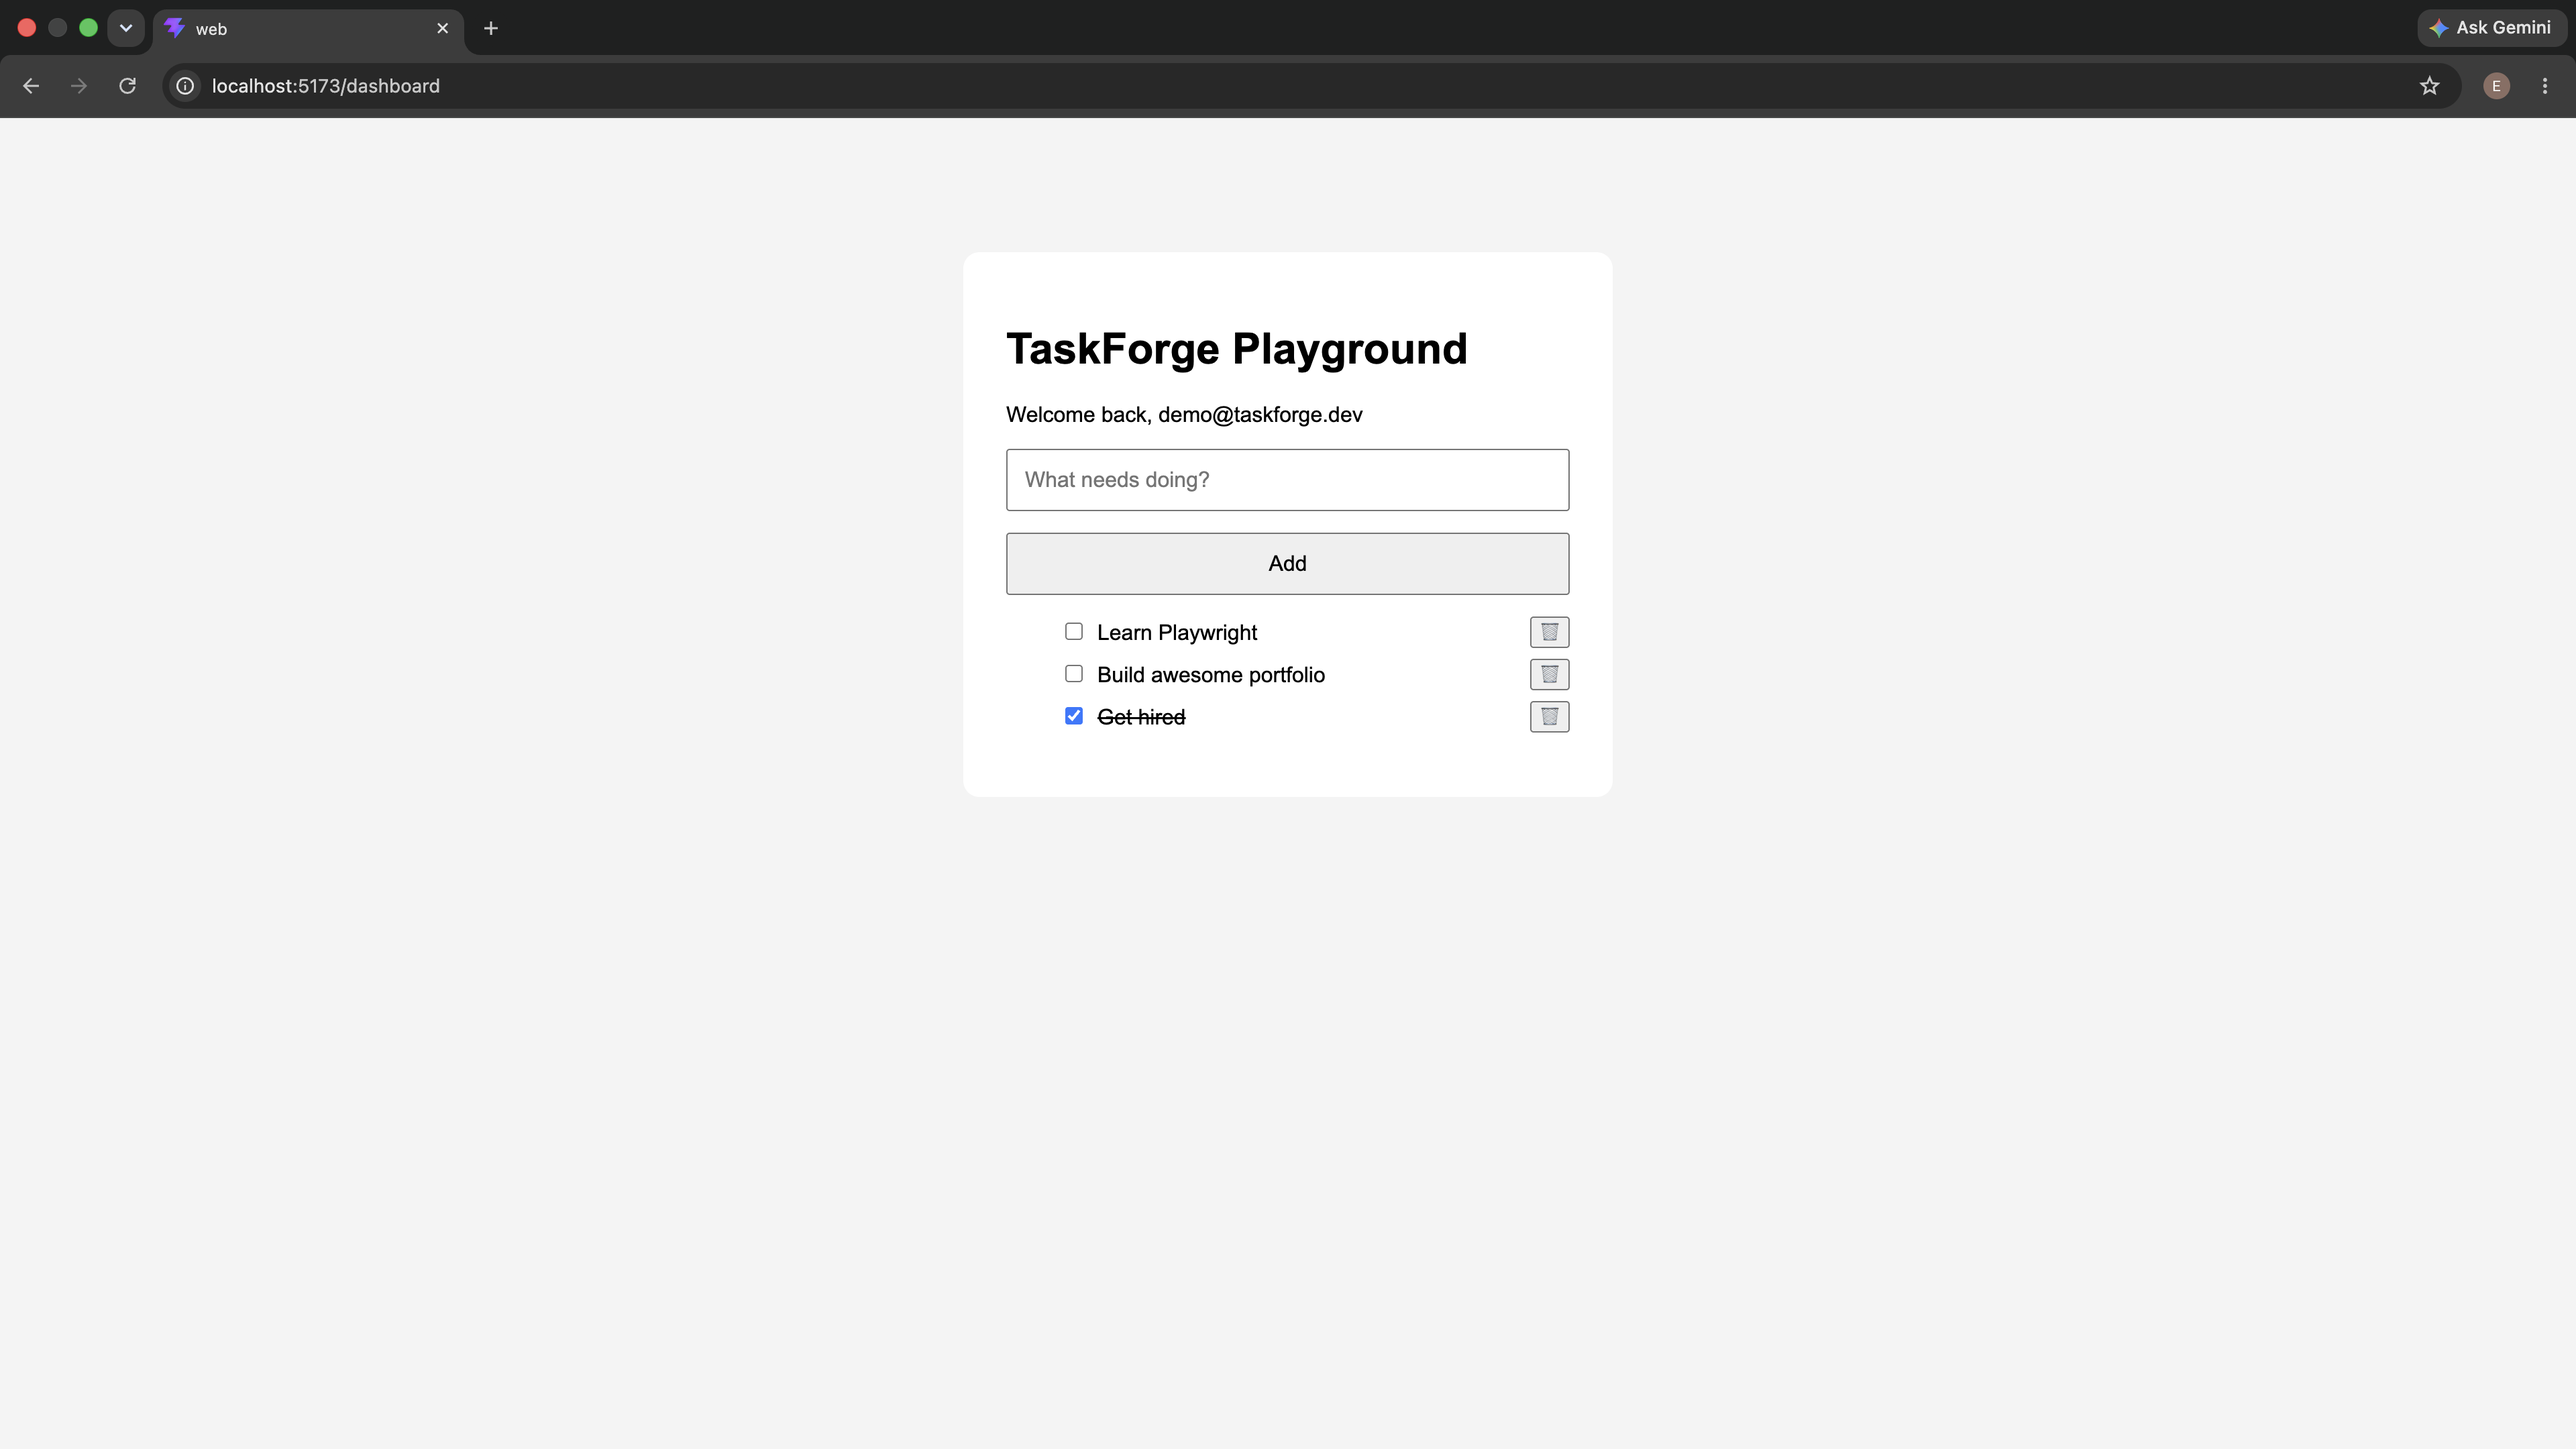
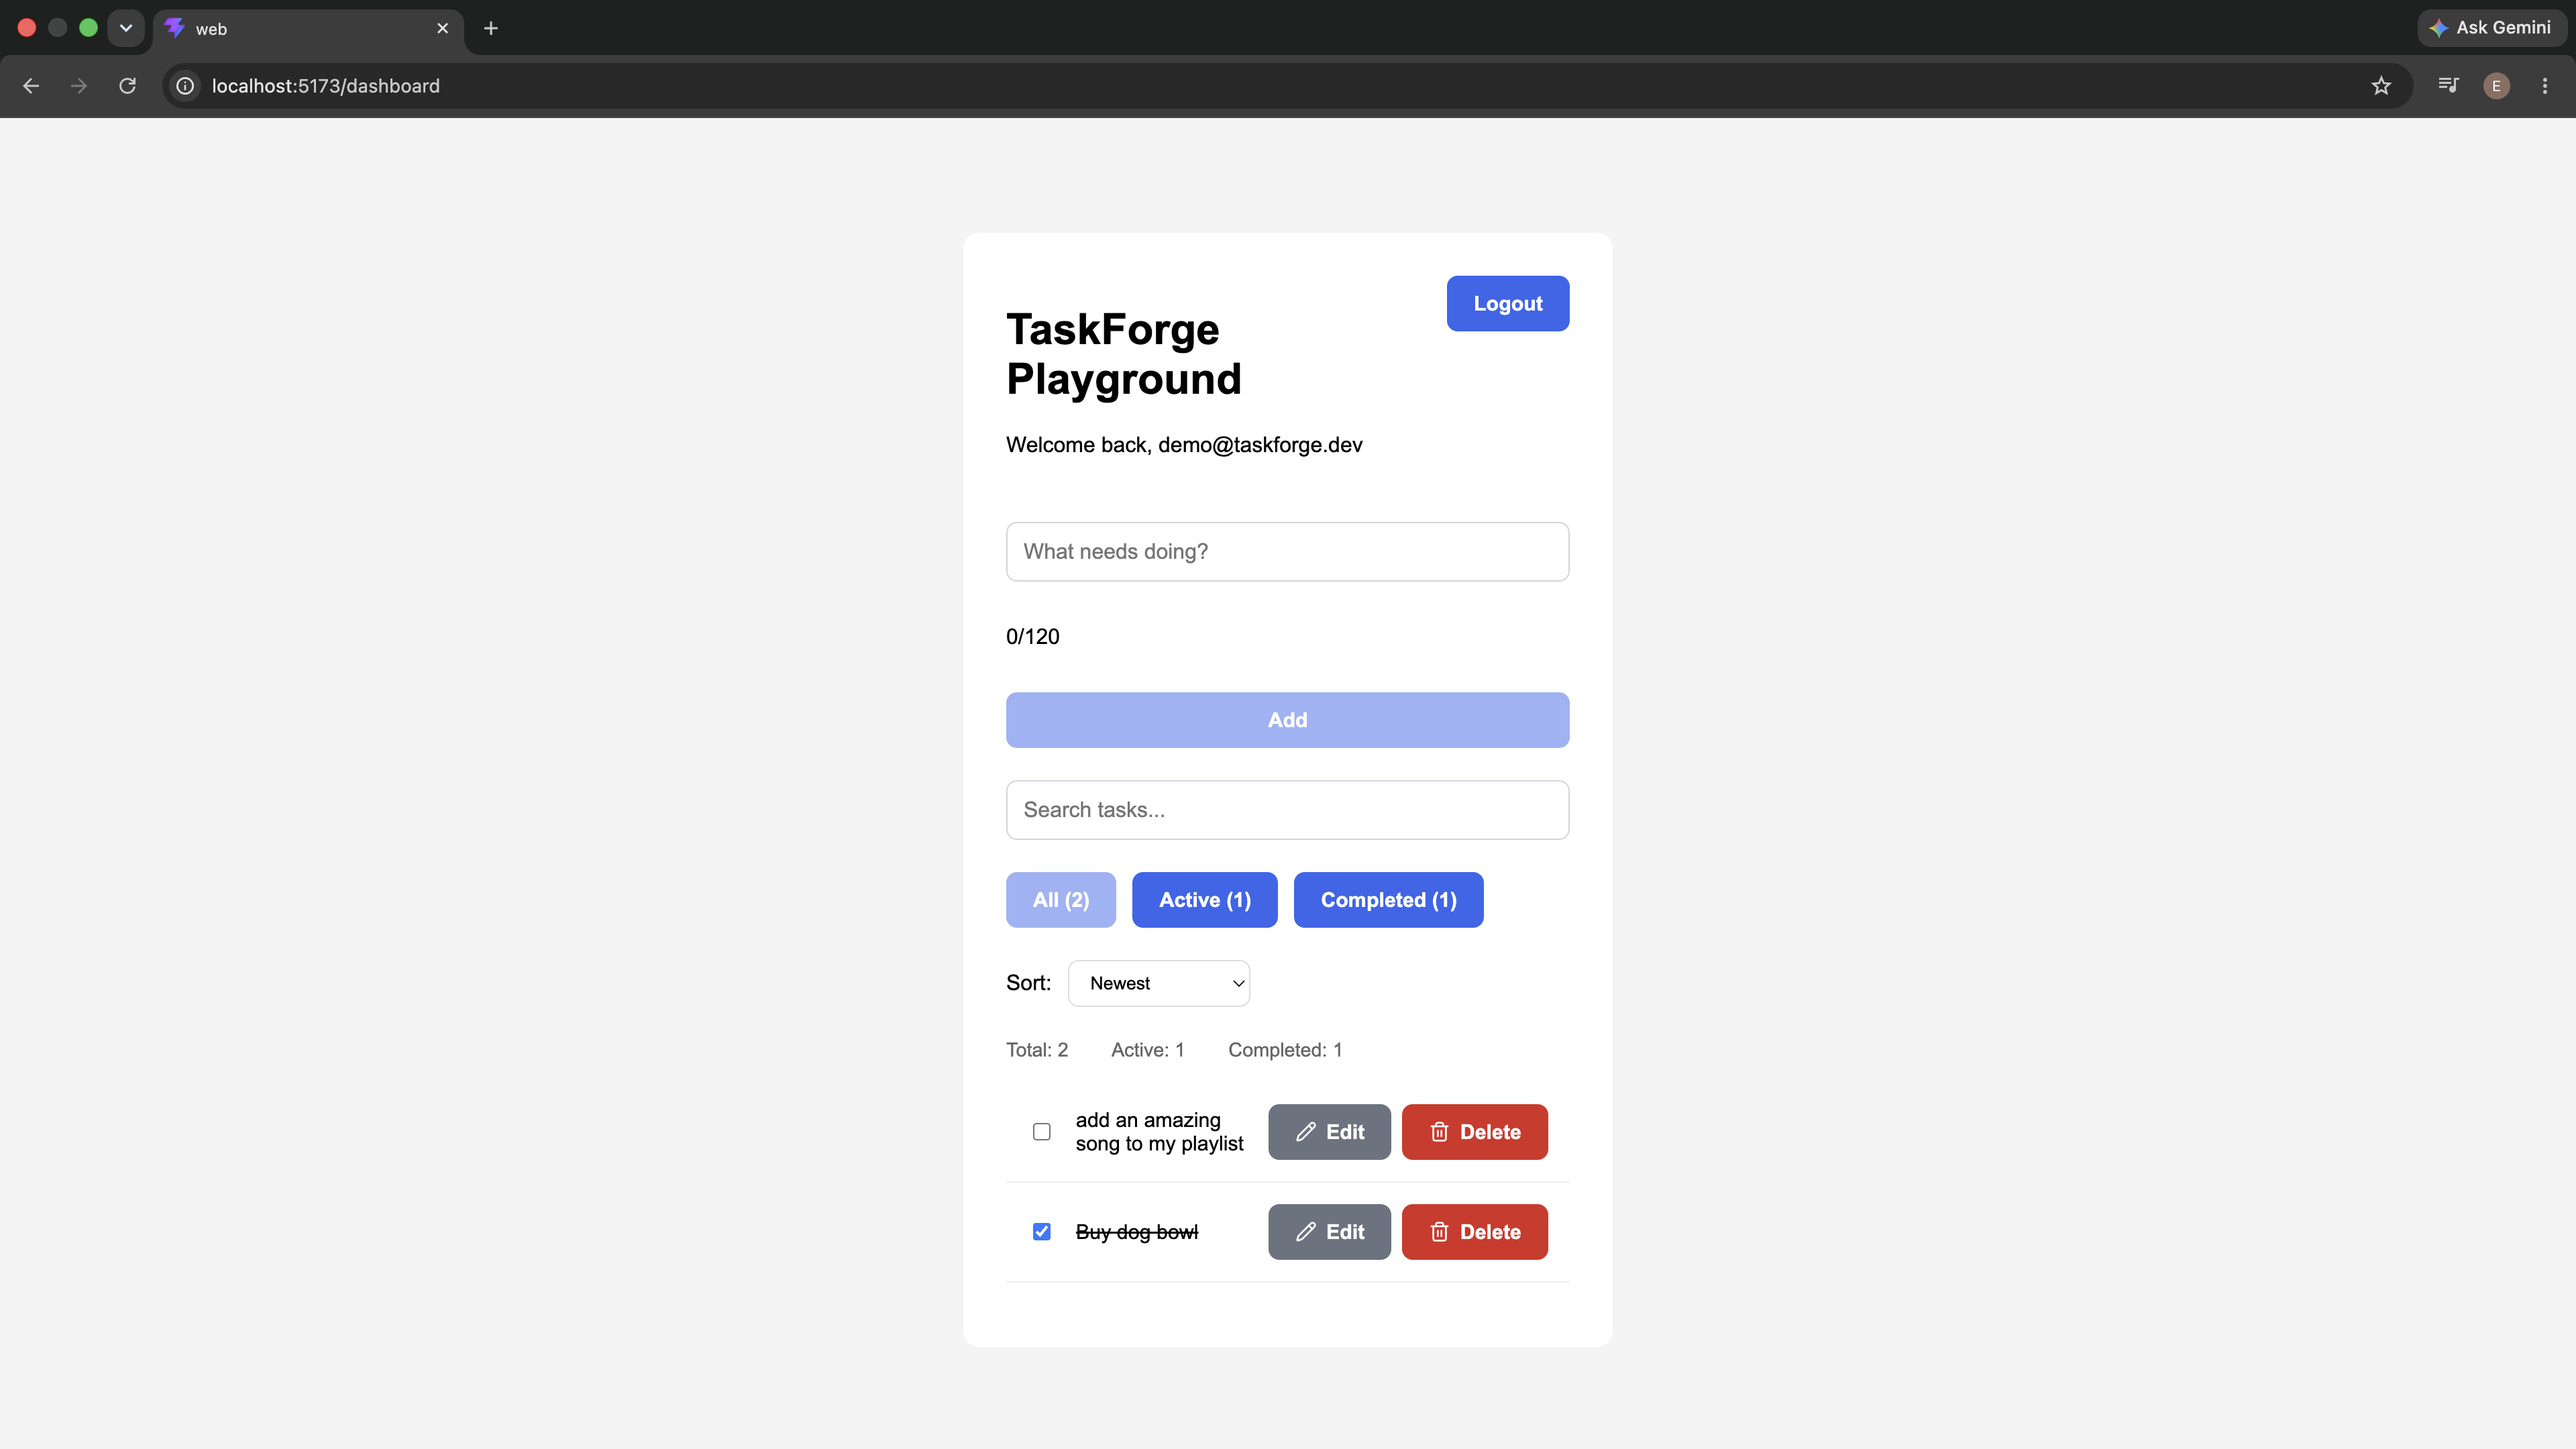
feat: update README screenshot, update delete confirmation location

diff --git a/tests/pages/TodoPage.ts b/tests/pages/TodoPage.ts
@@ -78,13 +78,26 @@ export class TodoPage extends BasePage {
     }
 
     async delete(title: string) {
-        const item = this.todoItem(title);
+        await this.openDeleteDialog(title);
+        await this.page.getByTestId("confirm-button").click();
+    }
 
-        await item.getByTestId("todo-delete-button").click();
+    async openDeleteDialog(title: string) {
+        await this.todoItem(title).getByTestId("todo-delete-button").click();
+    }
 
-        await this.page
-            .getByTestId("confirm-button")
-            .click();
+    async expectDeleteDialogInViewport() {
+        const dialog = this.page.getByTestId("confirm-dialog");
+        await expect(dialog).toBeVisible();
+        await expect(dialog.locator("..")).toHaveCSS("position", "fixed");
+
+        const box = await dialog.boundingBox();
+        const viewport = this.page.viewportSize();
+
+        expect(box).not.toBeNull();
+        expect(viewport).not.toBeNull();
+        expect(box!.y).toBeGreaterThanOrEqual(0);
+        expect(box!.y + box!.height).toBeLessThanOrEqual(viewport!.height);
     }
 
     async expectCompleted(title: string) {

diff --git a/tests/e2e/todos.spec.ts b/tests/e2e/todos.spec.ts
@@ -214,3 +214,16 @@ test("user can delete a todo", async ({ page }) => {
   await todoPage.delete(title);
   await todoPage.expectTodoMissing(title);
 });
+
+test("delete confirmation stays visible in the viewport", async ({ page }) => {
+  const loginPage = new LoginPage(page);
+  const dashboardPage = new DashboardPage(page);
+  const todoPage = new TodoPage(page);
+  const title = `Visible dialog ${Date.now()}`;
+
+  await loginPage.goto();
+  await loginPage.login(demoUser);
+  await dashboardPage.addTodo(title);
+  await todoPage.openDeleteDialog(title);
+  await todoPage.expectDeleteDialogInViewport();
+});

diff --git a/apps/web/src/styles/components/dialog.css b/apps/web/src/styles/components/dialog.css
@@ -1,6 +1,20 @@
+.dialog-overlay {
+    position: fixed;
+    inset: 0;
+    z-index: 1000;
+
+    display: grid;
+    place-items: center;
+    padding: 1rem;
+
+    background: rgba(17, 24, 39, 0.45);
+}
+
 .dialog {
     width: 420px;
     max-width: 90vw;
+    max-height: calc(100vh - 2rem);
+    overflow-y: auto;
 
     background: white;
     border-radius: 12px;
